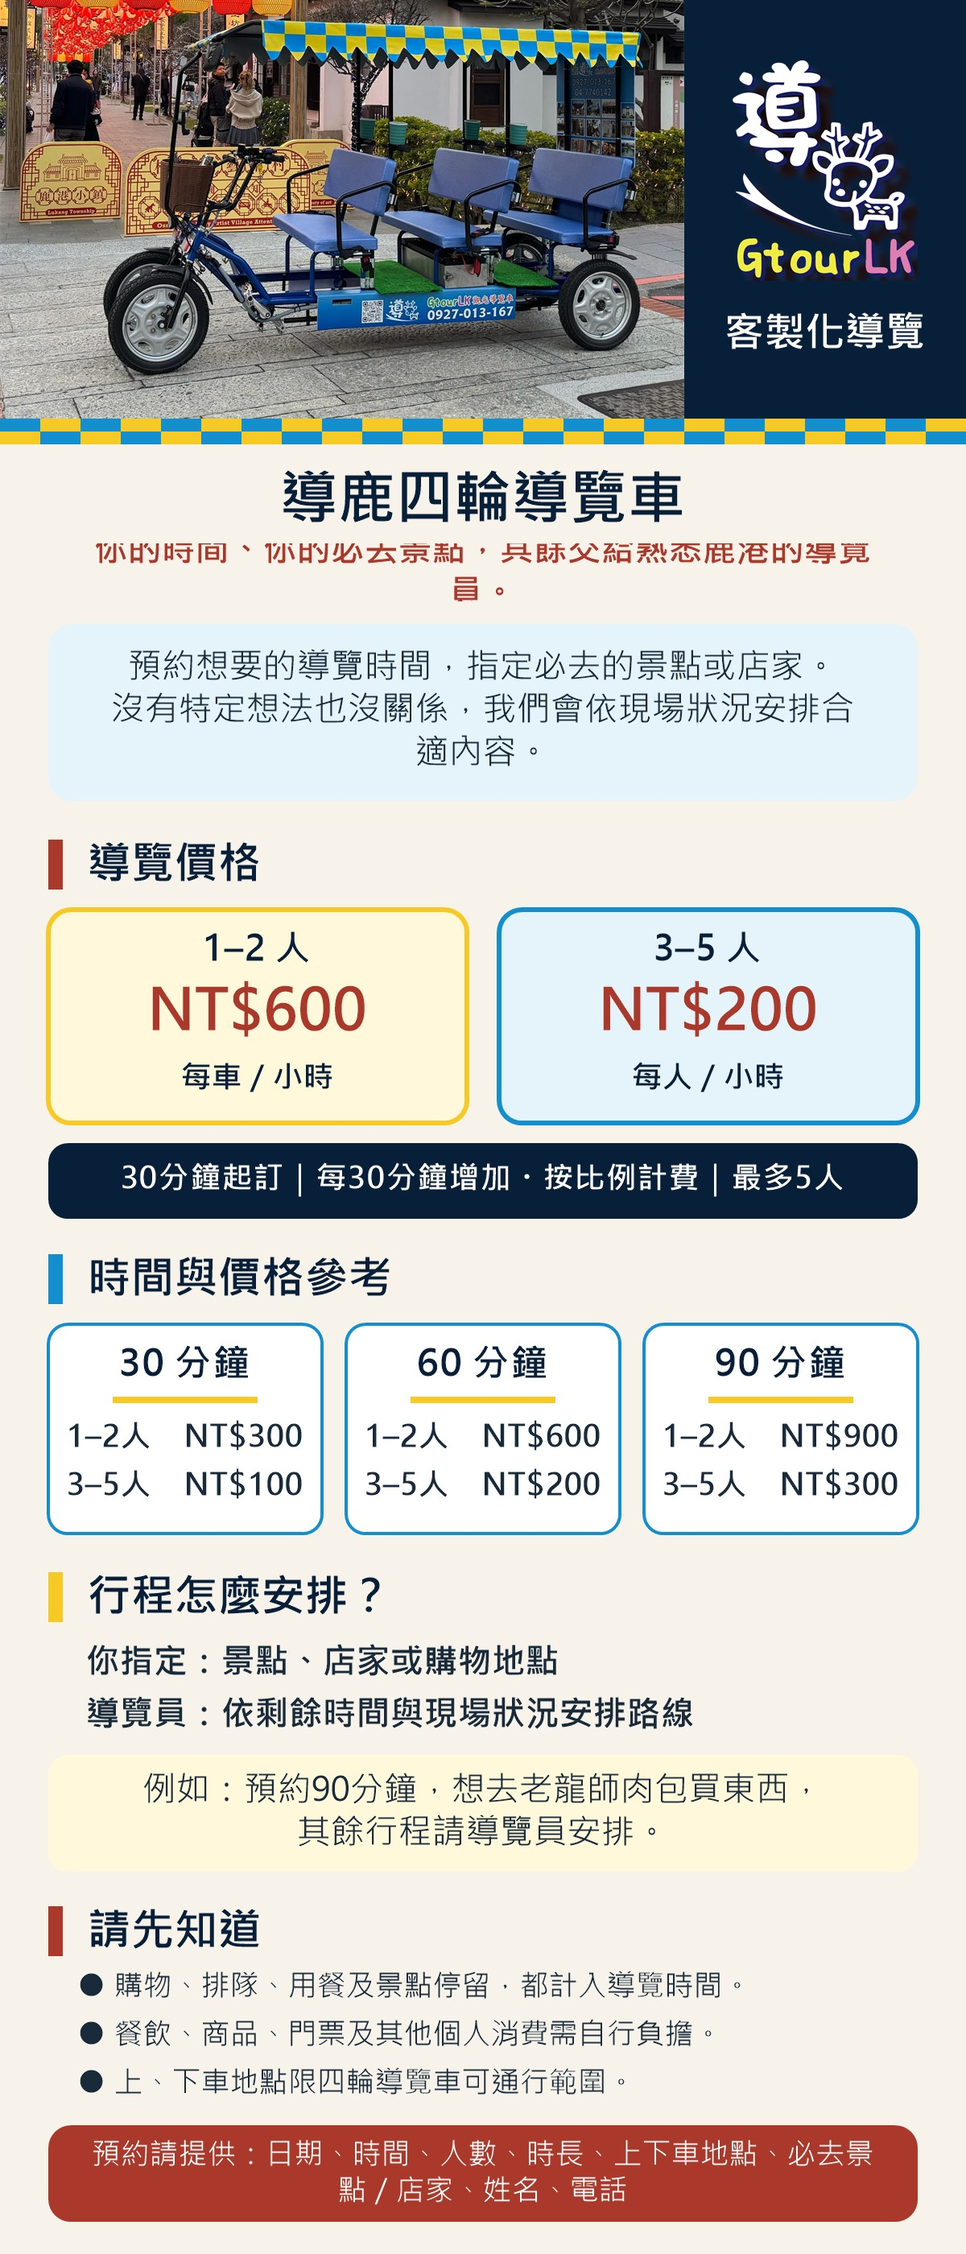
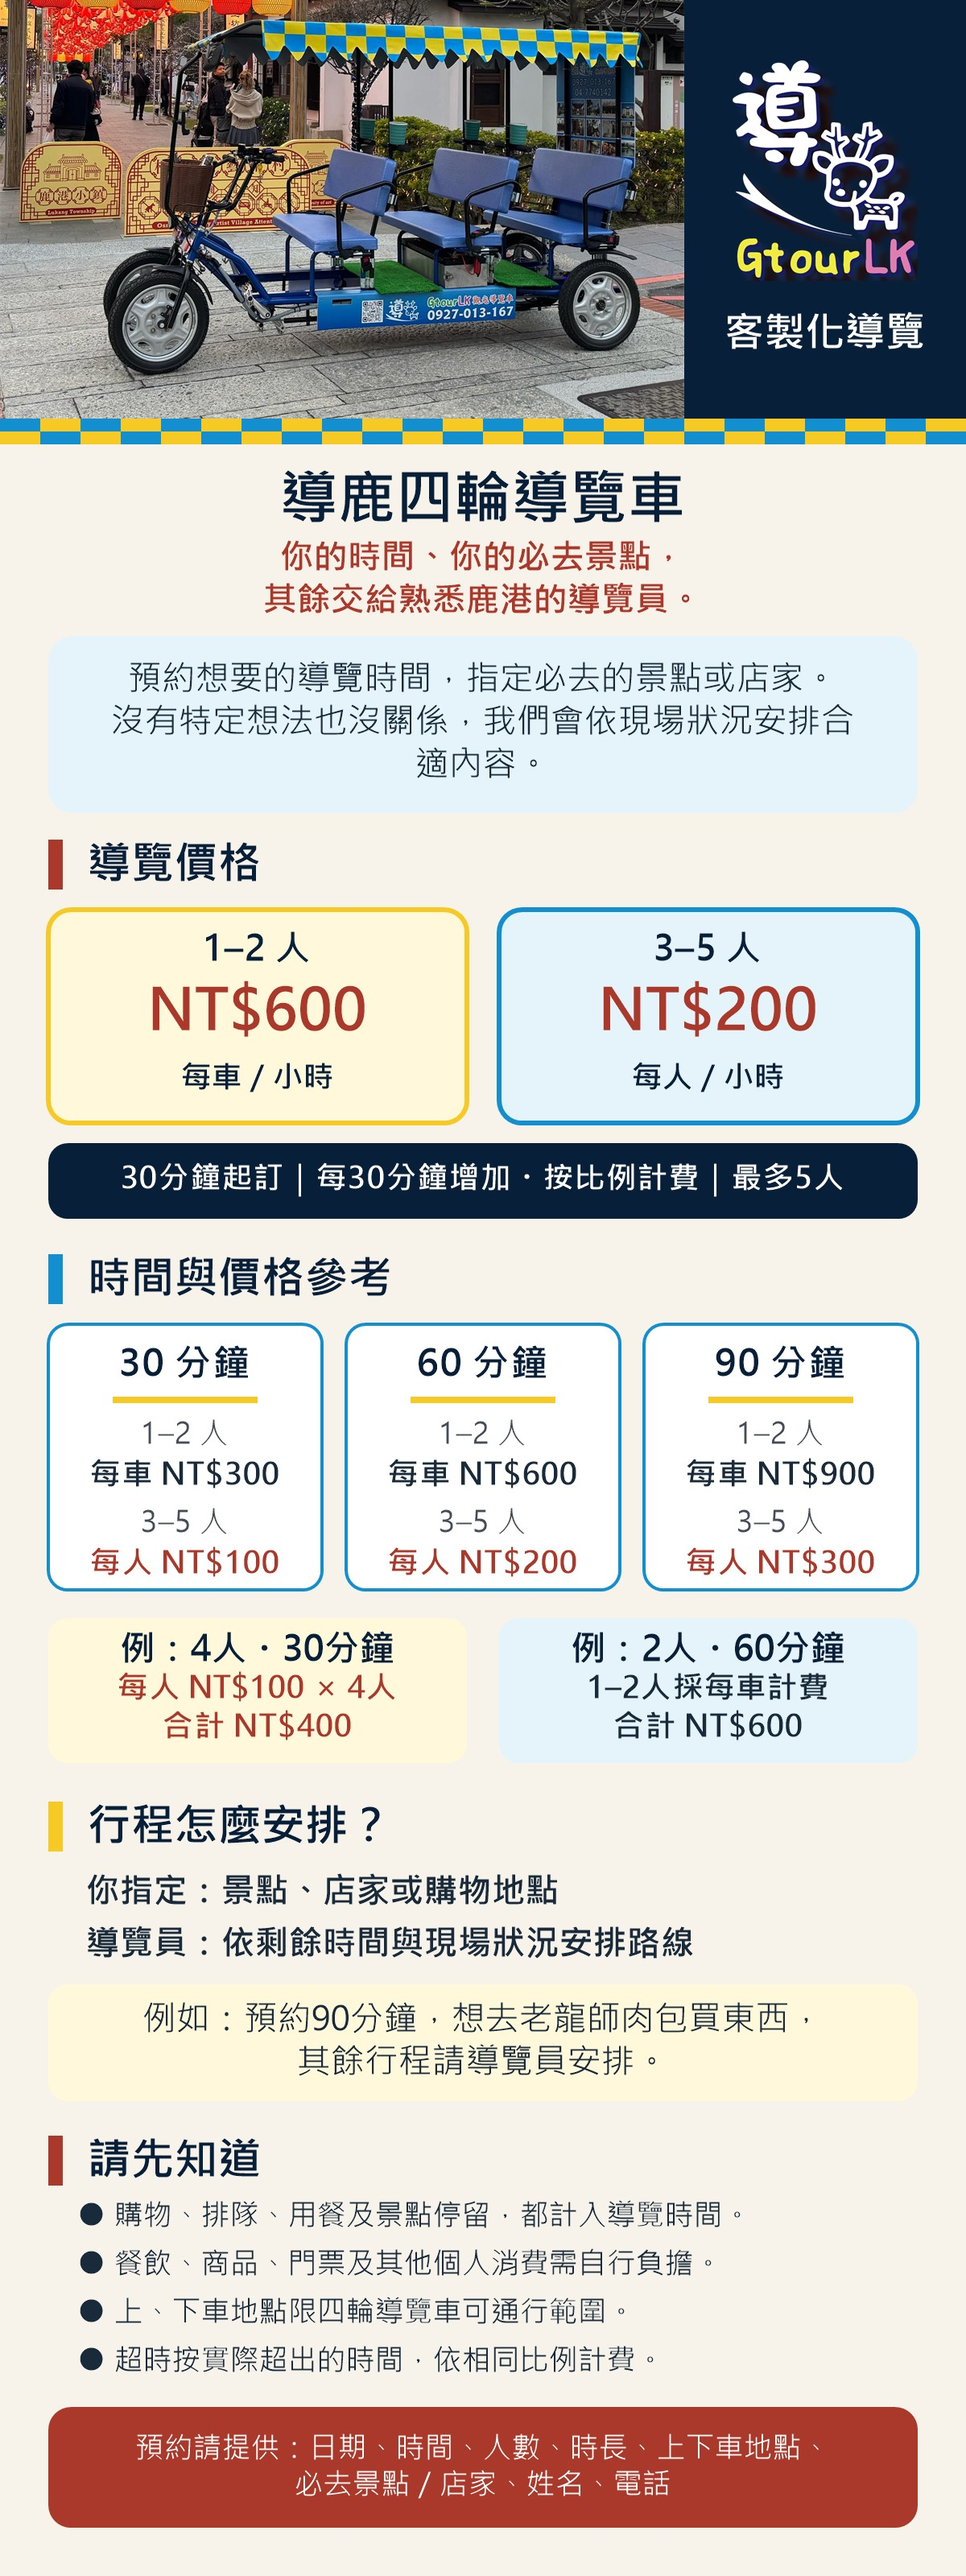
Clarify pricing examples in infographic

diff --git a/src/components/Services.jsx b/src/components/Services.jsx
@@ -223,7 +223,7 @@ export default function Services({ setSelectedPlan }) {
               alt="導鹿四輪導覽車客製化導覽價格資訊圖。1至2人每車每小時600元；3至5人每人每小時200元；30分鐘起訂，每30分鐘增加，按時間比例計費，每車最多5人。"
               loading="lazy"
               width="1200"
-              height="2800"
+              height="3200"
               className="block w-full h-auto"
             />
           </figure>
